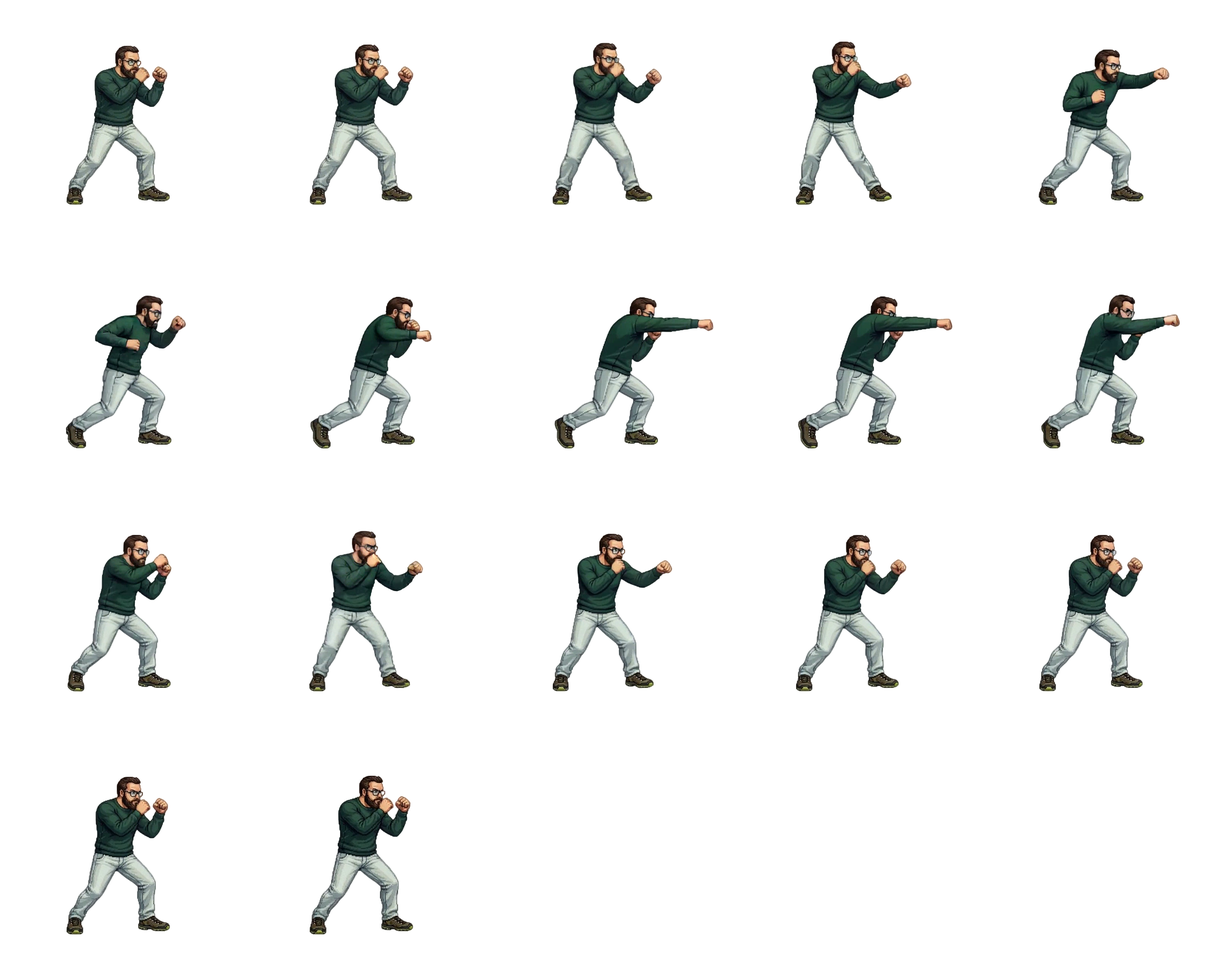
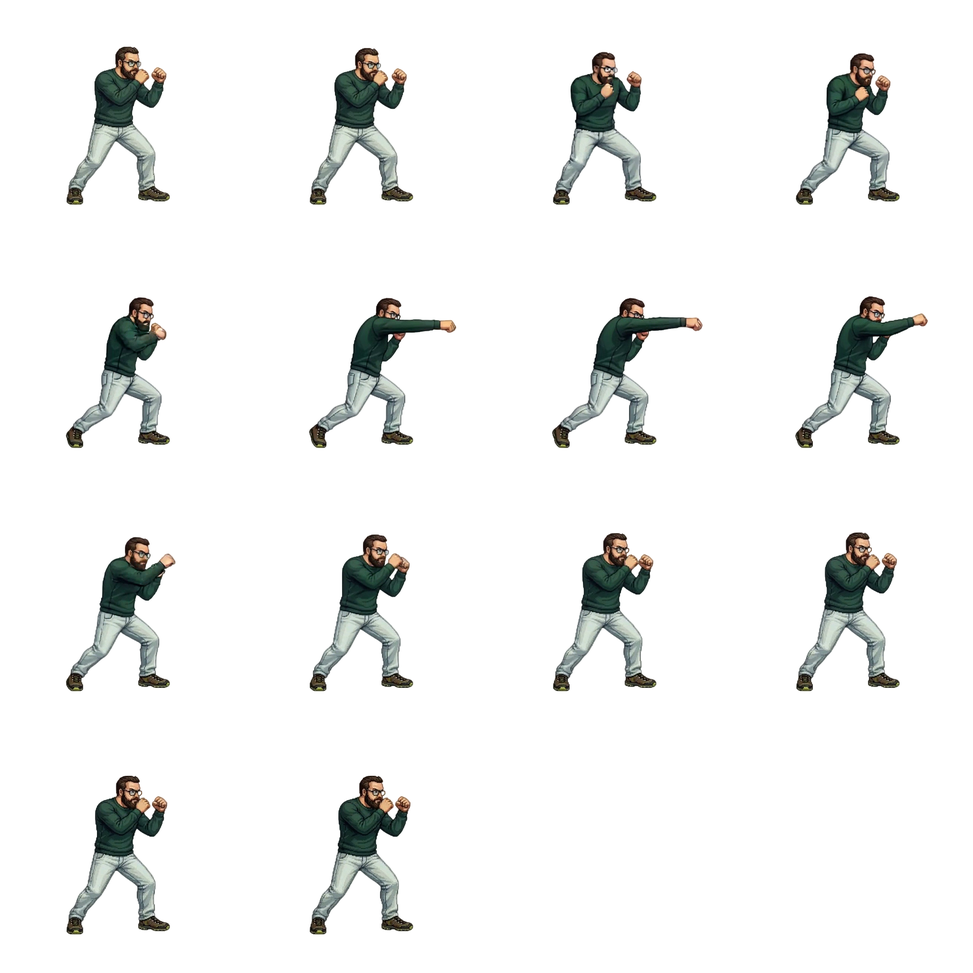
report pugno leggero

diff --git a/demo-moves/reports/light-punch-timing.html b/demo-moves/reports/light-punch-timing.html
@@ -1,1 +1,1 @@
-<!doctype html><html lang="it"><meta charset="utf-8"><meta name="viewport" content="width=device-width, initial-scale=1"><title>Timing Pugno leggero - WEDOO Fighters</title><style>body{font:15px/1.5 system-ui;background:#141815;color:#eff3eb;margin:0;padding:32px}main{max-width:1500px;margin:auto}a{color:#ceef80}h1{font-size:30px}p{max-width:1000px;color:#bbc7b9}.table-wrap{overflow:auto}table{border-collapse:collapse;width:100%;font-size:13px}th,td{border-bottom:1px solid #3b493c;padding:10px;text-align:left}thead th{background:#273329;white-space:nowrap}img{object-fit:contain;background:#cbd3ca;border-radius:8px;image-rendering:pixelated}td:last-child{min-width:200px}b{color:#ceef80}@media print{body{background:white;color:black;padding:0}b,a{color:black}thead th{background:#eee}img{width:80px;height:80px}th,td{padding:5px;font-size:10px}}</style><main><a href="../mosse.html?move=light-punch">Apri i pugni nella demo</a><h1>Timing Pugno leggero</h1><p>Aggiornamento: 2026-11-05. Controllati visivamente 42 personaggi su 42. Il frame selezionato di massima estensione inizia a 250 ms, con ciclo di 500 ms a velocita 1x. Preparazione e fase successiva durano 250 ms e 250 ms; i frame hanno durate diverse nelle due fasi e conservano l'ordine originale.</p><p>I numeri dei frame in tabella partono da 1. Il timing precedente e il riferimento uniforme di 500 ms della demo, non la velocita di AutoSprite. Quando il braccio resta esteso per piu frame, e scelta una posa rappresentativa di massima estensione: le pose estese adiacenti possono iniziare prima del marcatore. Recuperi incompleti e colpi multipli sono segnalati nelle note.</p><p>Riproduci tutte riparte dal primo frame e allinea le schede anche con caricamento progressivo. I controlli individuali permettono di uscire dalla sincronizzazione. Il timing e applicato dal player, senza modificare i pixel degli spritesheet. Le altre mosse mantengono 24 fps.</p><p>Personaggi senza Light Punch disponibile (0): nessuno.</p><p><a href="light-punch-timing.csv" download>Scarica i timing in CSV</a></p><div class="table-wrap"><table><thead><tr><th>Personaggio</th><th>Posa scelta</th><th>Frame</th><th>Impatto prima (uniforme)</th><th>Impatto ora</th><th>Preparazione</th><th>Fase successiva</th><th>Ciclo</th><th>Durata frame prima / dopo</th><th>Note</th></tr></thead><tbody><tr><th scope="row">ALBERTO</th><td><img src="light-punch-poses/alberto.png" alt="Massima estensione di ALBERTO" width="128" height="128" loading="lazy"></td><td>9 / 16</td><td>250.0 ms</td><td><b>250 ms</b></td><td>250 ms</td><td>250 ms</td><td>500 ms</td><td>31.25 / 31.25 ms</td><td>-</td></tr><tr><th scope="row">ALEX</th><td><img src="light-punch-poses/alex.png" alt="Massima estensione di ALEX" width="128" height="128" loading="lazy"></td><td>10 / 14</td><td>321.4 ms</td><td><b>250 ms</b></td><td>250 ms</td><td>250 ms</td><td>500 ms</td><td>27.78 / 50.00 ms</td><td>-</td></tr><tr><th scope="row">ANGELA</th><td><img src="light-punch-poses/angela.png" alt="Massima estensione di ANGELA" width="128" height="128" loading="lazy"></td><td>11 / 18</td><td>277.8 ms</td><td><b>250 ms</b></td><td>250 ms</td><td>250 ms</td><td>500 ms</td><td>25.00 / 31.25 ms</td><td>-</td></tr><tr><th scope="row">ANTONINO</th><td><img src="light-punch-poses/antonino.png" alt="Massima estensione di ANTONINO" width="128" height="128" loading="lazy"></td><td>12 / 20</td><td>275.0 ms</td><td><b>250 ms</b></td><td>250 ms</td><td>250 ms</td><td>500 ms</td><td>22.73 / 27.78 ms</td><td>-</td></tr><tr><th scope="row">BARBARA-FIOCCA</th><td><img src="light-punch-poses/barbara-fiocca.png" alt="Massima estensione di BARBARA-FIOCCA" width="128" height="128" loading="lazy"></td><td>10 / 19</td><td>236.8 ms</td><td><b>250 ms</b></td><td>250 ms</td><td>250 ms</td><td>500 ms</td><td>27.78 / 25.00 ms</td><td>-</td></tr><tr><th scope="row">Bonazzi</th><td><img src="light-punch-poses/bonazzi.png" alt="Massima estensione di Bonazzi" width="128" height="128" loading="lazy"></td><td>9 / 17</td><td>235.3 ms</td><td><b>250 ms</b></td><td>250 ms</td><td>250 ms</td><td>500 ms</td><td>31.25 / 27.78 ms</td><td>Due estensioni visibili; allineata la seconda, piu avanzata.</td></tr><tr><th scope="row">Chiara-Molina</th><td><img src="light-punch-poses/chiara-molina.png" alt="Massima estensione di Chiara-Molina" width="128" height="128" loading="lazy"></td><td>16 / 22</td><td>340.9 ms</td><td><b>250 ms</b></td><td>250 ms</td><td>250 ms</td><td>500 ms</td><td>16.67 / 35.71 ms</td><td>-</td></tr><tr><th scope="row">CHIARA-TONIOL</th><td><img src="light-punch-poses/chiara-toniol.png" alt="Massima estensione di CHIARA-TONIOL" width="128" height="128" loading="lazy"></td><td>12 / 17</td><td>323.5 ms</td><td><b>250 ms</b></td><td>250 ms</td><td>250 ms</td><td>500 ms</td><td>22.73 / 41.67 ms</td><td>-</td></tr><tr><th scope="row">CONDELLO</th><td><img src="light-punch-poses/condello.png" alt="Massima estensione di CONDELLO" width="128" height="128" loading="lazy"></td><td>6 / 10</td><td>250.0 ms</td><td><b>250 ms</b></td><td>250 ms</td><td>250 ms</td><td>500 ms</td><td>50.00 / 50.00 ms</td><td>-</td></tr><tr><th scope="row">DINO</th><td><img src="light-punch-poses/dino.png" alt="Massima estensione di DINO" width="128" height="128" loading="lazy"></td><td>13 / 18</td><td>333.3 ms</td><td><b>250 ms</b></td><td>250 ms</td><td>250 ms</td><td>500 ms</td><td>20.83 / 41.67 ms</td><td>-</td></tr><tr><th scope="row">Elisa</th><td><img src="light-punch-poses/elisa.png" alt="Massima estensione di Elisa" width="128" height="128" loading="lazy"></td><td>12 / 18</td><td>305.6 ms</td><td><b>250 ms</b></td><td>250 ms</td><td>250 ms</td><td>500 ms</td><td>22.73 / 35.71 ms</td><td>-</td></tr><tr><th scope="row">EMMA</th><td><img src="light-punch-poses/emma.png" alt="Massima estensione di EMMA" width="128" height="128" loading="lazy"></td><td>12 / 19</td><td>289.5 ms</td><td><b>250 ms</b></td><td>250 ms</td><td>250 ms</td><td>500 ms</td><td>22.73 / 31.25 ms</td><td>-</td></tr><tr><th scope="row">EROS</th><td><img src="light-punch-poses/eros.png" alt="Massima estensione di EROS" width="128" height="128" loading="lazy"></td><td>11 / 25</td><td>200.0 ms</td><td><b>250 ms</b></td><td>250 ms</td><td>250 ms</td><td>500 ms</td><td>25.00 / 16.67 ms</td><td>-</td></tr><tr><th scope="row">FABIO-CLARA</th><td><img src="light-punch-poses/fabio-clara.png" alt="Massima estensione di FABIO-CLARA" width="128" height="128" loading="lazy"></td><td>13 / 20</td><td>300.0 ms</td><td><b>250 ms</b></td><td>250 ms</td><td>250 ms</td><td>500 ms</td><td>20.83 / 31.25 ms</td><td>-</td></tr><tr><th scope="row">FARA</th><td><img src="light-punch-poses/fara.png" alt="Massima estensione di FARA" width="128" height="128" loading="lazy"></td><td>6 / 11</td><td>227.3 ms</td><td><b>250 ms</b></td><td>250 ms</td><td>250 ms</td><td>500 ms</td><td>50.00 / 41.67 ms</td><td>-</td></tr><tr><th scope="row">FRA-AMATO</th><td><img src="light-punch-poses/fra-amato.png" alt="Massima estensione di FRA-AMATO" width="128" height="128" loading="lazy"></td><td>4 / 12</td><td>125.0 ms</td><td><b>250 ms</b></td><td>250 ms</td><td>250 ms</td><td>500 ms</td><td>83.33 / 27.78 ms</td><td>-</td></tr><tr><th scope="row">FRA-TAVARONE</th><td><img src="light-punch-poses/fra-tavarone.png" alt="Massima estensione di FRA-TAVARONE" width="128" height="128" loading="lazy"></td><td>7 / 13</td><td>230.8 ms</td><td><b>250 ms</b></td><td>250 ms</td><td>250 ms</td><td>500 ms</td><td>41.67 / 35.71 ms</td><td>-</td></tr><tr><th scope="row">FRANCESCA-RIVELLA</th><td><img src="light-punch-poses/francesca-rivella.png" alt="Massima estensione di FRANCESCA-RIVELLA" width="128" height="128" loading="lazy"></td><td>9 / 14</td><td>285.7 ms</td><td><b>250 ms</b></td><td>250 ms</td><td>250 ms</td><td>500 ms</td><td>31.25 / 41.67 ms</td><td>-</td></tr><tr><th scope="row">FRANCESCO-LEONI</th><td><img src="light-punch-poses/francesco-leoni.png" alt="Massima estensione di FRANCESCO-LEONI" width="128" height="128" loading="lazy"></td><td>17 / 24</td><td>333.3 ms</td><td><b>250 ms</b></td><td>250 ms</td><td>250 ms</td><td>500 ms</td><td>15.62 / 31.25 ms</td><td>-</td></tr><tr><th scope="row">GENNARO</th><td><img src="light-punch-poses/gennaro.png" alt="Massima estensione di GENNARO" width="128" height="128" loading="lazy"></td><td>4 / 12</td><td>125.0 ms</td><td><b>250 ms</b></td><td>250 ms</td><td>250 ms</td><td>500 ms</td><td>83.33 / 27.78 ms</td><td>-</td></tr><tr><th scope="row">Giordano</th><td><img src="light-punch-poses/giordano.png" alt="Massima estensione di Giordano" width="128" height="128" loading="lazy"></td><td>11 / 16</td><td>312.5 ms</td><td><b>250 ms</b></td><td>250 ms</td><td>250 ms</td><td>500 ms</td><td>25.00 / 41.67 ms</td><td>-</td></tr><tr><th scope="row">GIORGIO</th><td><img src="light-punch-poses/giorgio.png" alt="Massima estensione di GIORGIO" width="128" height="128" loading="lazy"></td><td>6 / 14</td><td>178.6 ms</td><td><b>250 ms</b></td><td>250 ms</td><td>250 ms</td><td>500 ms</td><td>50.00 / 27.78 ms</td><td>-</td></tr><tr><th scope="row">JERRY</th><td><img src="light-punch-poses/jerry.png" alt="Massima estensione di JERRY" width="128" height="128" loading="lazy"></td><td>16 / 25</td><td>300.0 ms</td><td><b>250 ms</b></td><td>250 ms</td><td>250 ms</td><td>500 ms</td><td>16.67 / 25.00 ms</td><td>-</td></tr><tr><th scope="row">LIVIO</th><td><img src="light-punch-poses/livio.png" alt="Massima estensione di LIVIO" width="128" height="128" loading="lazy"></td><td>8 / 10</td><td>350.0 ms</td><td><b>250 ms</b></td><td>250 ms</td><td>250 ms</td><td>500 ms</td><td>35.71 / 83.33 ms</td><td>Il taglio termina durante il recupero.</td></tr><tr><th scope="row">LUANA</th><td><img src="light-punch-poses/luana.png" alt="Massima estensione di LUANA" width="128" height="128" loading="lazy"></td><td>18 / 24</td><td>354.2 ms</td><td><b>250 ms</b></td><td>250 ms</td><td>250 ms</td><td>500 ms</td><td>14.71 / 35.71 ms</td><td>-</td></tr><tr><th scope="row">MANU</th><td><img src="light-punch-poses/manu.png" alt="Massima estensione di MANU" width="128" height="128" loading="lazy"></td><td>4 / 14</td><td>107.1 ms</td><td><b>250 ms</b></td><td>250 ms</td><td>250 ms</td><td>500 ms</td><td>83.33 / 22.73 ms</td><td>-</td></tr><tr><th scope="row">MARCO-BALPO</th><td><img src="light-punch-poses/marco-balpo.png" alt="Massima estensione di MARCO-BALPO" width="128" height="128" loading="lazy"></td><td>10 / 18</td><td>250.0 ms</td><td><b>250 ms</b></td><td>250 ms</td><td>250 ms</td><td>500 ms</td><td>27.78 / 27.78 ms</td><td>-</td></tr><tr><th scope="row">Marco-Rossetti</th><td><img src="light-punch-poses/marco-rossetti.png" alt="Massima estensione di Marco-Rossetti" width="128" height="128" loading="lazy"></td><td>12 / 13</td><td>423.1 ms</td><td><b>250 ms</b></td><td>250 ms</td><td>250 ms</td><td>500 ms</td><td>22.73 / 125.00 ms</td><td>Il taglio termina con il braccio ancora esteso: manca il ritorno in guardia.</td></tr><tr><th scope="row">MARIO</th><td><img src="light-punch-poses/mario.png" alt="Massima estensione di MARIO" width="128" height="128" loading="lazy"></td><td>5 / 10</td><td>200.0 ms</td><td><b>250 ms</b></td><td>250 ms</td><td>250 ms</td><td>500 ms</td><td>62.50 / 41.67 ms</td><td>-</td></tr><tr><th scope="row">MARSAN</th><td><img src="light-punch-poses/marsan.png" alt="Massima estensione di MARSAN" width="128" height="128" loading="lazy"></td><td>15 / 24</td><td>291.7 ms</td><td><b>250 ms</b></td><td>250 ms</td><td>250 ms</td><td>500 ms</td><td>17.86 / 25.00 ms</td><td>-</td></tr><tr><th scope="row">MARTINI</th><td><img src="light-punch-poses/martini.png" alt="Massima estensione di MARTINI" width="128" height="128" loading="lazy"></td><td>18 / 22</td><td>386.4 ms</td><td><b>250 ms</b></td><td>250 ms</td><td>250 ms</td><td>500 ms</td><td>14.71 / 50.00 ms</td><td>-</td></tr><tr><th scope="row">MATTEO</th><td><img src="light-punch-poses/matteo.png" alt="Massima estensione di MATTEO" width="128" height="128" loading="lazy"></td><td>12 / 18</td><td>305.6 ms</td><td><b>250 ms</b></td><td>250 ms</td><td>250 ms</td><td>500 ms</td><td>22.73 / 35.71 ms</td><td>-</td></tr><tr><th scope="row">MIKE</th><td><img src="light-punch-poses/mike.png" alt="Massima estensione di MIKE" width="128" height="128" loading="lazy"></td><td>18 / 23</td><td>369.6 ms</td><td><b>250 ms</b></td><td>250 ms</td><td>250 ms</td><td>500 ms</td><td>14.71 / 41.67 ms</td><td>-</td></tr><tr><th scope="row">MORI</th><td><img src="light-punch-poses/mori.png" alt="Massima estensione di MORI" width="128" height="128" loading="lazy"></td><td>11 / 17</td><td>294.1 ms</td><td><b>250 ms</b></td><td>250 ms</td><td>250 ms</td><td>500 ms</td><td>25.00 / 35.71 ms</td><td>-</td></tr><tr><th scope="row">Oscar</th><td><img src="light-punch-poses/oscar.png" alt="Massima estensione di Oscar" width="128" height="128" loading="lazy"></td><td>13 / 23</td><td>260.9 ms</td><td><b>250 ms</b></td><td>250 ms</td><td>250 ms</td><td>500 ms</td><td>20.83 / 22.73 ms</td><td>-</td></tr><tr><th scope="row">PEIROLO</th><td><img src="light-punch-poses/peirolo.png" alt="Massima estensione di PEIROLO" width="128" height="128" loading="lazy"></td><td>8 / 13</td><td>269.2 ms</td><td><b>250 ms</b></td><td>250 ms</td><td>250 ms</td><td>500 ms</td><td>35.71 / 41.67 ms</td><td>-</td></tr><tr><th scope="row">PEPPO</th><td><img src="light-punch-poses/peppo.png" alt="Massima estensione di PEPPO" width="128" height="128" loading="lazy"></td><td>11 / 15</td><td>333.3 ms</td><td><b>250 ms</b></td><td>250 ms</td><td>250 ms</td><td>500 ms</td><td>25.00 / 50.00 ms</td><td>Due estensioni visibili; allineata la seconda, piu avanzata.</td></tr><tr><th scope="row">PIPPO</th><td><img src="light-punch-poses/pippo.png" alt="Massima estensione di PIPPO" width="128" height="128" loading="lazy"></td><td>11 / 16</td><td>312.5 ms</td><td><b>250 ms</b></td><td>250 ms</td><td>250 ms</td><td>500 ms</td><td>25.00 / 41.67 ms</td><td>-</td></tr><tr><th scope="row">SBOZ</th><td><img src="light-punch-poses/sboz.png" alt="Massima estensione di SBOZ" width="128" height="128" loading="lazy"></td><td>9 / 12</td><td>333.3 ms</td><td><b>250 ms</b></td><td>250 ms</td><td>250 ms</td><td>500 ms</td><td>31.25 / 62.50 ms</td><td>Il taglio termina prima del ritorno completo in guardia.</td></tr><tr><th scope="row">Simona</th><td><img src="light-punch-poses/simona.png" alt="Massima estensione di Simona" width="128" height="128" loading="lazy"></td><td>7 / 14</td><td>214.3 ms</td><td><b>250 ms</b></td><td>250 ms</td><td>250 ms</td><td>500 ms</td><td>41.67 / 31.25 ms</td><td>-</td></tr><tr><th scope="row">TOMMASO</th><td><img src="light-punch-poses/tommaso.png" alt="Massima estensione di TOMMASO" width="128" height="128" loading="lazy"></td><td>15 / 23</td><td>304.3 ms</td><td><b>250 ms</b></td><td>250 ms</td><td>250 ms</td><td>500 ms</td><td>17.86 / 27.78 ms</td><td>-</td></tr><tr><th scope="row">ZICHELLA</th><td><img src="light-punch-poses/zichella.png" alt="Massima estensione di ZICHELLA" width="128" height="128" loading="lazy"></td><td>18 / 24</td><td>354.2 ms</td><td><b>250 ms</b></td><td>250 ms</td><td>250 ms</td><td>500 ms</td><td>14.71 / 35.71 ms</td><td>-</td></tr></tbody></table></div></main></html>
+<!doctype html><html lang="it"><meta charset="utf-8"><meta name="viewport" content="width=device-width, initial-scale=1"><title>Timing Pugno leggero - WEDOO Fighters</title><style>body{font:15px/1.5 system-ui;background:#141815;color:#eff3eb;margin:0;padding:32px}main{max-width:1500px;margin:auto}a{color:#ceef80}h1{font-size:30px}p{max-width:1000px;color:#bbc7b9}.table-wrap{overflow:auto}table{border-collapse:collapse;width:100%;font-size:13px}th,td{border-bottom:1px solid #3b493c;padding:10px;text-align:left}thead th{background:#273329;white-space:nowrap}img{object-fit:contain;background:#cbd3ca;border-radius:8px;image-rendering:pixelated}td:last-child{min-width:200px}b{color:#ceef80}@media print{body{background:white;color:black;padding:0}b,a{color:black}thead th{background:#eee}img{width:80px;height:80px}th,td{padding:5px;font-size:10px}}</style><main><a href="../mosse.html?move=light-punch">Apri i pugni nella demo</a><h1>Timing Pugno leggero</h1><p>Aggiornamento: 2026-11-05. Controllati visivamente 42 personaggi su 42. Il frame selezionato di massima estensione inizia a 250 ms, con ciclo di 500 ms a velocita 1x. Preparazione e fase successiva durano 250 ms e 250 ms; i frame hanno durate diverse nelle due fasi e conservano l'ordine originale.</p><p>I numeri dei frame in tabella partono da 1. Il timing precedente e il riferimento uniforme di 500 ms della demo, non la velocita di AutoSprite. Quando il braccio resta esteso per piu frame, e scelta una posa rappresentativa di massima estensione: le pose estese adiacenti possono iniziare prima del marcatore. Recuperi incompleti e colpi multipli sono segnalati nelle note.</p><p>Riproduci tutte riparte dal primo frame e allinea le schede anche con caricamento progressivo. I controlli individuali permettono di uscire dalla sincronizzazione. Il timing e applicato dal player, senza modificare i pixel degli spritesheet. Le altre mosse mantengono 24 fps.</p><p>Personaggi senza Light Punch disponibile (0): nessuno.</p><p><a href="light-punch-timing.csv" download>Scarica i timing in CSV</a></p><div class="table-wrap"><table><thead><tr><th>Personaggio</th><th>Posa scelta</th><th>Frame</th><th>Impatto prima (uniforme)</th><th>Impatto ora</th><th>Preparazione</th><th>Fase successiva</th><th>Ciclo</th><th>Durata frame prima / dopo</th><th>Note</th></tr></thead><tbody><tr><th scope="row">ALBERTO</th><td><img src="light-punch-poses/alberto.png" alt="Massima estensione di ALBERTO" width="128" height="128" loading="lazy"></td><td>9 / 16</td><td>250.0 ms</td><td><b>250 ms</b></td><td>250 ms</td><td>250 ms</td><td>500 ms</td><td>31.25 / 31.25 ms</td><td>-</td></tr><tr><th scope="row">ALEX</th><td><img src="light-punch-poses/alex.png" alt="Massima estensione di ALEX" width="128" height="128" loading="lazy"></td><td>10 / 14</td><td>321.4 ms</td><td><b>250 ms</b></td><td>250 ms</td><td>250 ms</td><td>500 ms</td><td>27.78 / 50.00 ms</td><td>-</td></tr><tr><th scope="row">ANGELA</th><td><img src="light-punch-poses/angela.png" alt="Massima estensione di ANGELA" width="128" height="128" loading="lazy"></td><td>11 / 18</td><td>277.8 ms</td><td><b>250 ms</b></td><td>250 ms</td><td>250 ms</td><td>500 ms</td><td>25.00 / 31.25 ms</td><td>-</td></tr><tr><th scope="row">ANTONINO</th><td><img src="light-punch-poses/antonino.png" alt="Massima estensione di ANTONINO" width="128" height="128" loading="lazy"></td><td>12 / 20</td><td>275.0 ms</td><td><b>250 ms</b></td><td>250 ms</td><td>250 ms</td><td>500 ms</td><td>22.73 / 27.78 ms</td><td>-</td></tr><tr><th scope="row">BARBARA-FIOCCA</th><td><img src="light-punch-poses/barbara-fiocca.png" alt="Massima estensione di BARBARA-FIOCCA" width="128" height="128" loading="lazy"></td><td>10 / 19</td><td>236.8 ms</td><td><b>250 ms</b></td><td>250 ms</td><td>250 ms</td><td>500 ms</td><td>27.78 / 25.00 ms</td><td>-</td></tr><tr><th scope="row">Bonazzi</th><td><img src="light-punch-poses/bonazzi.png" alt="Massima estensione di Bonazzi" width="128" height="128" loading="lazy"></td><td>7 / 14</td><td>214.3 ms</td><td><b>250 ms</b></td><td>250 ms</td><td>250 ms</td><td>500 ms</td><td>41.67 / 31.25 ms</td><td>Singolo pugno con ritorno in guardia; scelta la massima estensione.</td></tr><tr><th scope="row">Chiara-Molina</th><td><img src="light-punch-poses/chiara-molina.png" alt="Massima estensione di Chiara-Molina" width="128" height="128" loading="lazy"></td><td>16 / 22</td><td>340.9 ms</td><td><b>250 ms</b></td><td>250 ms</td><td>250 ms</td><td>500 ms</td><td>16.67 / 35.71 ms</td><td>-</td></tr><tr><th scope="row">CHIARA-TONIOL</th><td><img src="light-punch-poses/chiara-toniol.png" alt="Massima estensione di CHIARA-TONIOL" width="128" height="128" loading="lazy"></td><td>12 / 17</td><td>323.5 ms</td><td><b>250 ms</b></td><td>250 ms</td><td>250 ms</td><td>500 ms</td><td>22.73 / 41.67 ms</td><td>-</td></tr><tr><th scope="row">CONDELLO</th><td><img src="light-punch-poses/condello.png" alt="Massima estensione di CONDELLO" width="128" height="128" loading="lazy"></td><td>6 / 10</td><td>250.0 ms</td><td><b>250 ms</b></td><td>250 ms</td><td>250 ms</td><td>500 ms</td><td>50.00 / 50.00 ms</td><td>-</td></tr><tr><th scope="row">DINO</th><td><img src="light-punch-poses/dino.png" alt="Massima estensione di DINO" width="128" height="128" loading="lazy"></td><td>13 / 18</td><td>333.3 ms</td><td><b>250 ms</b></td><td>250 ms</td><td>250 ms</td><td>500 ms</td><td>20.83 / 41.67 ms</td><td>-</td></tr><tr><th scope="row">Elisa</th><td><img src="light-punch-poses/elisa.png" alt="Massima estensione di Elisa" width="128" height="128" loading="lazy"></td><td>12 / 18</td><td>305.6 ms</td><td><b>250 ms</b></td><td>250 ms</td><td>250 ms</td><td>500 ms</td><td>22.73 / 35.71 ms</td><td>-</td></tr><tr><th scope="row">EMMA</th><td><img src="light-punch-poses/emma.png" alt="Massima estensione di EMMA" width="128" height="128" loading="lazy"></td><td>12 / 19</td><td>289.5 ms</td><td><b>250 ms</b></td><td>250 ms</td><td>250 ms</td><td>500 ms</td><td>22.73 / 31.25 ms</td><td>-</td></tr><tr><th scope="row">EROS</th><td><img src="light-punch-poses/eros.png" alt="Massima estensione di EROS" width="128" height="128" loading="lazy"></td><td>11 / 25</td><td>200.0 ms</td><td><b>250 ms</b></td><td>250 ms</td><td>250 ms</td><td>500 ms</td><td>25.00 / 16.67 ms</td><td>-</td></tr><tr><th scope="row">FABIO-CLARA</th><td><img src="light-punch-poses/fabio-clara.png" alt="Massima estensione di FABIO-CLARA" width="128" height="128" loading="lazy"></td><td>13 / 20</td><td>300.0 ms</td><td><b>250 ms</b></td><td>250 ms</td><td>250 ms</td><td>500 ms</td><td>20.83 / 31.25 ms</td><td>-</td></tr><tr><th scope="row">FARA</th><td><img src="light-punch-poses/fara.png" alt="Massima estensione di FARA" width="128" height="128" loading="lazy"></td><td>6 / 11</td><td>227.3 ms</td><td><b>250 ms</b></td><td>250 ms</td><td>250 ms</td><td>500 ms</td><td>50.00 / 41.67 ms</td><td>-</td></tr><tr><th scope="row">FRA-AMATO</th><td><img src="light-punch-poses/fra-amato.png" alt="Massima estensione di FRA-AMATO" width="128" height="128" loading="lazy"></td><td>4 / 12</td><td>125.0 ms</td><td><b>250 ms</b></td><td>250 ms</td><td>250 ms</td><td>500 ms</td><td>83.33 / 27.78 ms</td><td>-</td></tr><tr><th scope="row">FRA-TAVARONE</th><td><img src="light-punch-poses/fra-tavarone.png" alt="Massima estensione di FRA-TAVARONE" width="128" height="128" loading="lazy"></td><td>7 / 13</td><td>230.8 ms</td><td><b>250 ms</b></td><td>250 ms</td><td>250 ms</td><td>500 ms</td><td>41.67 / 35.71 ms</td><td>-</td></tr><tr><th scope="row">FRANCESCA-RIVELLA</th><td><img src="light-punch-poses/francesca-rivella.png" alt="Massima estensione di FRANCESCA-RIVELLA" width="128" height="128" loading="lazy"></td><td>9 / 14</td><td>285.7 ms</td><td><b>250 ms</b></td><td>250 ms</td><td>250 ms</td><td>500 ms</td><td>31.25 / 41.67 ms</td><td>-</td></tr><tr><th scope="row">FRANCESCO-LEONI</th><td><img src="light-punch-poses/francesco-leoni.png" alt="Massima estensione di FRANCESCO-LEONI" width="128" height="128" loading="lazy"></td><td>17 / 24</td><td>333.3 ms</td><td><b>250 ms</b></td><td>250 ms</td><td>250 ms</td><td>500 ms</td><td>15.62 / 31.25 ms</td><td>-</td></tr><tr><th scope="row">GENNARO</th><td><img src="light-punch-poses/gennaro.png" alt="Massima estensione di GENNARO" width="128" height="128" loading="lazy"></td><td>4 / 12</td><td>125.0 ms</td><td><b>250 ms</b></td><td>250 ms</td><td>250 ms</td><td>500 ms</td><td>83.33 / 27.78 ms</td><td>-</td></tr><tr><th scope="row">Giordano</th><td><img src="light-punch-poses/giordano.png" alt="Massima estensione di Giordano" width="128" height="128" loading="lazy"></td><td>11 / 16</td><td>312.5 ms</td><td><b>250 ms</b></td><td>250 ms</td><td>250 ms</td><td>500 ms</td><td>25.00 / 41.67 ms</td><td>-</td></tr><tr><th scope="row">GIORGIO</th><td><img src="light-punch-poses/giorgio.png" alt="Massima estensione di GIORGIO" width="128" height="128" loading="lazy"></td><td>6 / 14</td><td>178.6 ms</td><td><b>250 ms</b></td><td>250 ms</td><td>250 ms</td><td>500 ms</td><td>50.00 / 27.78 ms</td><td>-</td></tr><tr><th scope="row">JERRY</th><td><img src="light-punch-poses/jerry.png" alt="Massima estensione di JERRY" width="128" height="128" loading="lazy"></td><td>16 / 25</td><td>300.0 ms</td><td><b>250 ms</b></td><td>250 ms</td><td>250 ms</td><td>500 ms</td><td>16.67 / 25.00 ms</td><td>-</td></tr><tr><th scope="row">LIVIO</th><td><img src="light-punch-poses/livio.png" alt="Massima estensione di LIVIO" width="128" height="128" loading="lazy"></td><td>8 / 10</td><td>350.0 ms</td><td><b>250 ms</b></td><td>250 ms</td><td>250 ms</td><td>500 ms</td><td>35.71 / 83.33 ms</td><td>Il taglio termina durante il recupero.</td></tr><tr><th scope="row">LUANA</th><td><img src="light-punch-poses/luana.png" alt="Massima estensione di LUANA" width="128" height="128" loading="lazy"></td><td>18 / 24</td><td>354.2 ms</td><td><b>250 ms</b></td><td>250 ms</td><td>250 ms</td><td>500 ms</td><td>14.71 / 35.71 ms</td><td>-</td></tr><tr><th scope="row">MANU</th><td><img src="light-punch-poses/manu.png" alt="Massima estensione di MANU" width="128" height="128" loading="lazy"></td><td>4 / 14</td><td>107.1 ms</td><td><b>250 ms</b></td><td>250 ms</td><td>250 ms</td><td>500 ms</td><td>83.33 / 22.73 ms</td><td>-</td></tr><tr><th scope="row">MARCO-BALPO</th><td><img src="light-punch-poses/marco-balpo.png" alt="Massima estensione di MARCO-BALPO" width="128" height="128" loading="lazy"></td><td>10 / 18</td><td>250.0 ms</td><td><b>250 ms</b></td><td>250 ms</td><td>250 ms</td><td>500 ms</td><td>27.78 / 27.78 ms</td><td>-</td></tr><tr><th scope="row">Marco-Rossetti</th><td><img src="light-punch-poses/marco-rossetti.png" alt="Massima estensione di Marco-Rossetti" width="128" height="128" loading="lazy"></td><td>12 / 13</td><td>423.1 ms</td><td><b>250 ms</b></td><td>250 ms</td><td>250 ms</td><td>500 ms</td><td>22.73 / 125.00 ms</td><td>Il taglio termina con il braccio ancora esteso: manca il ritorno in guardia.</td></tr><tr><th scope="row">MARIO</th><td><img src="light-punch-poses/mario.png" alt="Massima estensione di MARIO" width="128" height="128" loading="lazy"></td><td>5 / 10</td><td>200.0 ms</td><td><b>250 ms</b></td><td>250 ms</td><td>250 ms</td><td>500 ms</td><td>62.50 / 41.67 ms</td><td>-</td></tr><tr><th scope="row">MARSAN</th><td><img src="light-punch-poses/marsan.png" alt="Massima estensione di MARSAN" width="128" height="128" loading="lazy"></td><td>15 / 24</td><td>291.7 ms</td><td><b>250 ms</b></td><td>250 ms</td><td>250 ms</td><td>500 ms</td><td>17.86 / 25.00 ms</td><td>-</td></tr><tr><th scope="row">MARTINI</th><td><img src="light-punch-poses/martini.png" alt="Massima estensione di MARTINI" width="128" height="128" loading="lazy"></td><td>18 / 22</td><td>386.4 ms</td><td><b>250 ms</b></td><td>250 ms</td><td>250 ms</td><td>500 ms</td><td>14.71 / 50.00 ms</td><td>-</td></tr><tr><th scope="row">MATTEO</th><td><img src="light-punch-poses/matteo.png" alt="Massima estensione di MATTEO" width="128" height="128" loading="lazy"></td><td>12 / 18</td><td>305.6 ms</td><td><b>250 ms</b></td><td>250 ms</td><td>250 ms</td><td>500 ms</td><td>22.73 / 35.71 ms</td><td>-</td></tr><tr><th scope="row">MIKE</th><td><img src="light-punch-poses/mike.png" alt="Massima estensione di MIKE" width="128" height="128" loading="lazy"></td><td>18 / 23</td><td>369.6 ms</td><td><b>250 ms</b></td><td>250 ms</td><td>250 ms</td><td>500 ms</td><td>14.71 / 41.67 ms</td><td>-</td></tr><tr><th scope="row">MORI</th><td><img src="light-punch-poses/mori.png" alt="Massima estensione di MORI" width="128" height="128" loading="lazy"></td><td>11 / 17</td><td>294.1 ms</td><td><b>250 ms</b></td><td>250 ms</td><td>250 ms</td><td>500 ms</td><td>25.00 / 35.71 ms</td><td>-</td></tr><tr><th scope="row">Oscar</th><td><img src="light-punch-poses/oscar.png" alt="Massima estensione di Oscar" width="128" height="128" loading="lazy"></td><td>13 / 23</td><td>260.9 ms</td><td><b>250 ms</b></td><td>250 ms</td><td>250 ms</td><td>500 ms</td><td>20.83 / 22.73 ms</td><td>-</td></tr><tr><th scope="row">PEIROLO</th><td><img src="light-punch-poses/peirolo.png" alt="Massima estensione di PEIROLO" width="128" height="128" loading="lazy"></td><td>8 / 13</td><td>269.2 ms</td><td><b>250 ms</b></td><td>250 ms</td><td>250 ms</td><td>500 ms</td><td>35.71 / 41.67 ms</td><td>-</td></tr><tr><th scope="row">PEPPO</th><td><img src="light-punch-poses/peppo.png" alt="Massima estensione di PEPPO" width="128" height="128" loading="lazy"></td><td>11 / 15</td><td>333.3 ms</td><td><b>250 ms</b></td><td>250 ms</td><td>250 ms</td><td>500 ms</td><td>25.00 / 50.00 ms</td><td>Due estensioni visibili; allineata la seconda, piu avanzata.</td></tr><tr><th scope="row">PIPPO</th><td><img src="light-punch-poses/pippo.png" alt="Massima estensione di PIPPO" width="128" height="128" loading="lazy"></td><td>11 / 16</td><td>312.5 ms</td><td><b>250 ms</b></td><td>250 ms</td><td>250 ms</td><td>500 ms</td><td>25.00 / 41.67 ms</td><td>-</td></tr><tr><th scope="row">SBOZ</th><td><img src="light-punch-poses/sboz.png" alt="Massima estensione di SBOZ" width="128" height="128" loading="lazy"></td><td>9 / 12</td><td>333.3 ms</td><td><b>250 ms</b></td><td>250 ms</td><td>250 ms</td><td>500 ms</td><td>31.25 / 62.50 ms</td><td>Il taglio termina prima del ritorno completo in guardia.</td></tr><tr><th scope="row">Simona</th><td><img src="light-punch-poses/simona.png" alt="Massima estensione di Simona" width="128" height="128" loading="lazy"></td><td>7 / 14</td><td>214.3 ms</td><td><b>250 ms</b></td><td>250 ms</td><td>250 ms</td><td>500 ms</td><td>41.67 / 31.25 ms</td><td>-</td></tr><tr><th scope="row">TOMMASO</th><td><img src="light-punch-poses/tommaso.png" alt="Massima estensione di TOMMASO" width="128" height="128" loading="lazy"></td><td>15 / 23</td><td>304.3 ms</td><td><b>250 ms</b></td><td>250 ms</td><td>250 ms</td><td>500 ms</td><td>17.86 / 27.78 ms</td><td>-</td></tr><tr><th scope="row">ZICHELLA</th><td><img src="light-punch-poses/zichella.png" alt="Massima estensione di ZICHELLA" width="128" height="128" loading="lazy"></td><td>18 / 24</td><td>354.2 ms</td><td><b>250 ms</b></td><td>250 ms</td><td>250 ms</td><td>500 ms</td><td>14.71 / 35.71 ms</td><td>-</td></tr></tbody></table></div></main></html>

diff --git a/demo-moves/catalog.js b/demo-moves/catalog.js
@@ -6968,9 +6968,15 @@ window.MOVES_CATALOG = {
           "savedSpeed": 1
         },
         {
-          "impactFrame": 8,
+          "impactFrame": 6,
           "impactMs": 250,
           "frameDurations": [
+            41.666666666666664,
+            41.666666666666664,
+            41.666666666666664,
+            41.666666666666664,
+            41.666666666666664,
+            41.666666666666664,
             31.25,
             31.25,
             31.25,
@@ -6978,16 +6984,7 @@ window.MOVES_CATALOG = {
             31.25,
             31.25,
             31.25,
-            31.25,
-            27.77777777777778,
-            27.77777777777778,
-            27.77777777777778,
-            27.77777777777778,
-            27.77777777777778,
-            27.77777777777778,
-            27.77777777777778,
-            27.77777777777778,
-            27.77777777777778
+            31.25
           ],
           "id": "light-punch",
           "name": "Pugno leggero",
@@ -7020,12 +7017,6 @@ window.MOVES_CATALOG = {
               512
             ],
             [
-              2048,
-              0,
-              512,
-              512
-            ],
-            [
               0,
               512,
               512,
@@ -7050,12 +7041,6 @@ window.MOVES_CATALOG = {
               512
             ],
             [
-              2048,
-              512,
-              512,
-              512
-            ],
-            [
               0,
               1024,
               512,
@@ -7075,12 +7060,6 @@ window.MOVES_CATALOG = {
             ],
             [
               1536,
-              1024,
-              512,
-              512
-            ],
-            [
-              2048,
               1024,
               512,
               512
@@ -7101,9 +7080,9 @@ window.MOVES_CATALOG = {
           "frameWidth": 512,
           "frameHeight": 512,
           "trimmed": true,
-          "playbackFps": 34,
+          "playbackFps": 28,
           "durationMs": 500,
-          "savedSpeed": 1
+          "savedSpeed": 2
         }
       ]
     },

diff --git a/demo-moves/mosse.html b/demo-moves/mosse.html
@@ -23,7 +23,7 @@
       <span class="local-status"><i aria-hidden="true"></i> Archivio mosse</span>
     </header>
     <main id="main" class="main-content detail-content" tabindex="-1">
-      <section class="roster-heading"><div><p class="eyebrow">ESPLORA PER MOSSA</p><h1 id="move-name">Mosse</h1><p class="intro">La stessa mossa, tutti i personaggi.<br>Usa la ricerca per filtrare i nomi.</p></div><div class="roster-total"><span id="move-total-count">?</span><span>PERSONAGGI<br>CON QUESTA MOSSA</span></div></section>
+      <section class="roster-heading"><div><p class="eyebrow">ESPLORA PER MOSSA</p><h1 id="move-name">Mosse</h1><p id="move-report" hidden><a class="play-button" href="reports/light-punch-timing.html">Apri il report del Pugno leggero →</a></p><p class="intro">La stessa mossa, tutti i personaggi.<br>Usa la ricerca per filtrare i nomi.</p></div><div class="roster-total"><span id="move-total-count">?</span><span>PERSONAGGI<br>CON QUESTA MOSSA</span></div></section>
       <p class="move-results"><span id="move-visible-count">0</span> personaggi visualizzati</p>
       <div id="move-gallery"></div>
       <p class="empty-state" id="move-empty" hidden>Nessun personaggio trovato per questa mossa. Prova con un altro nome.</p>

diff --git a/demo-moves/app.js b/demo-moves/app.js
@@ -85,6 +85,7 @@
     document.title = currentMove.name + ' - Per mossa - WEDOO Fighters';
     $('#breadcrumb-name').textContent = currentMove.name;
     $('#move-name').textContent = currentMove.name;
+    $('#move-report').hidden = currentMove.id !== 'light-punch';
     $('#move-total-count').textContent = currentMove.animations.length;
     renderMove();
     window.addEventListener('pagehide',()=>moveGallery?.destroy());

diff --git a/demo-moves/styles.css b/demo-moves/styles.css
@@ -42,3 +42,4 @@
 .sidebar-dropdown[open]>.sidebar-dropdown-toggle .dropdown-chevron{transform:rotate(225deg);margin-top:4px}
 .sidebar-dropdown .moves-nav{border-bottom:0;padding:0 12px 12px}
 .sidebar-dropdown .character-nav{padding-bottom:12px}
+#move-report{margin-top:30px}
